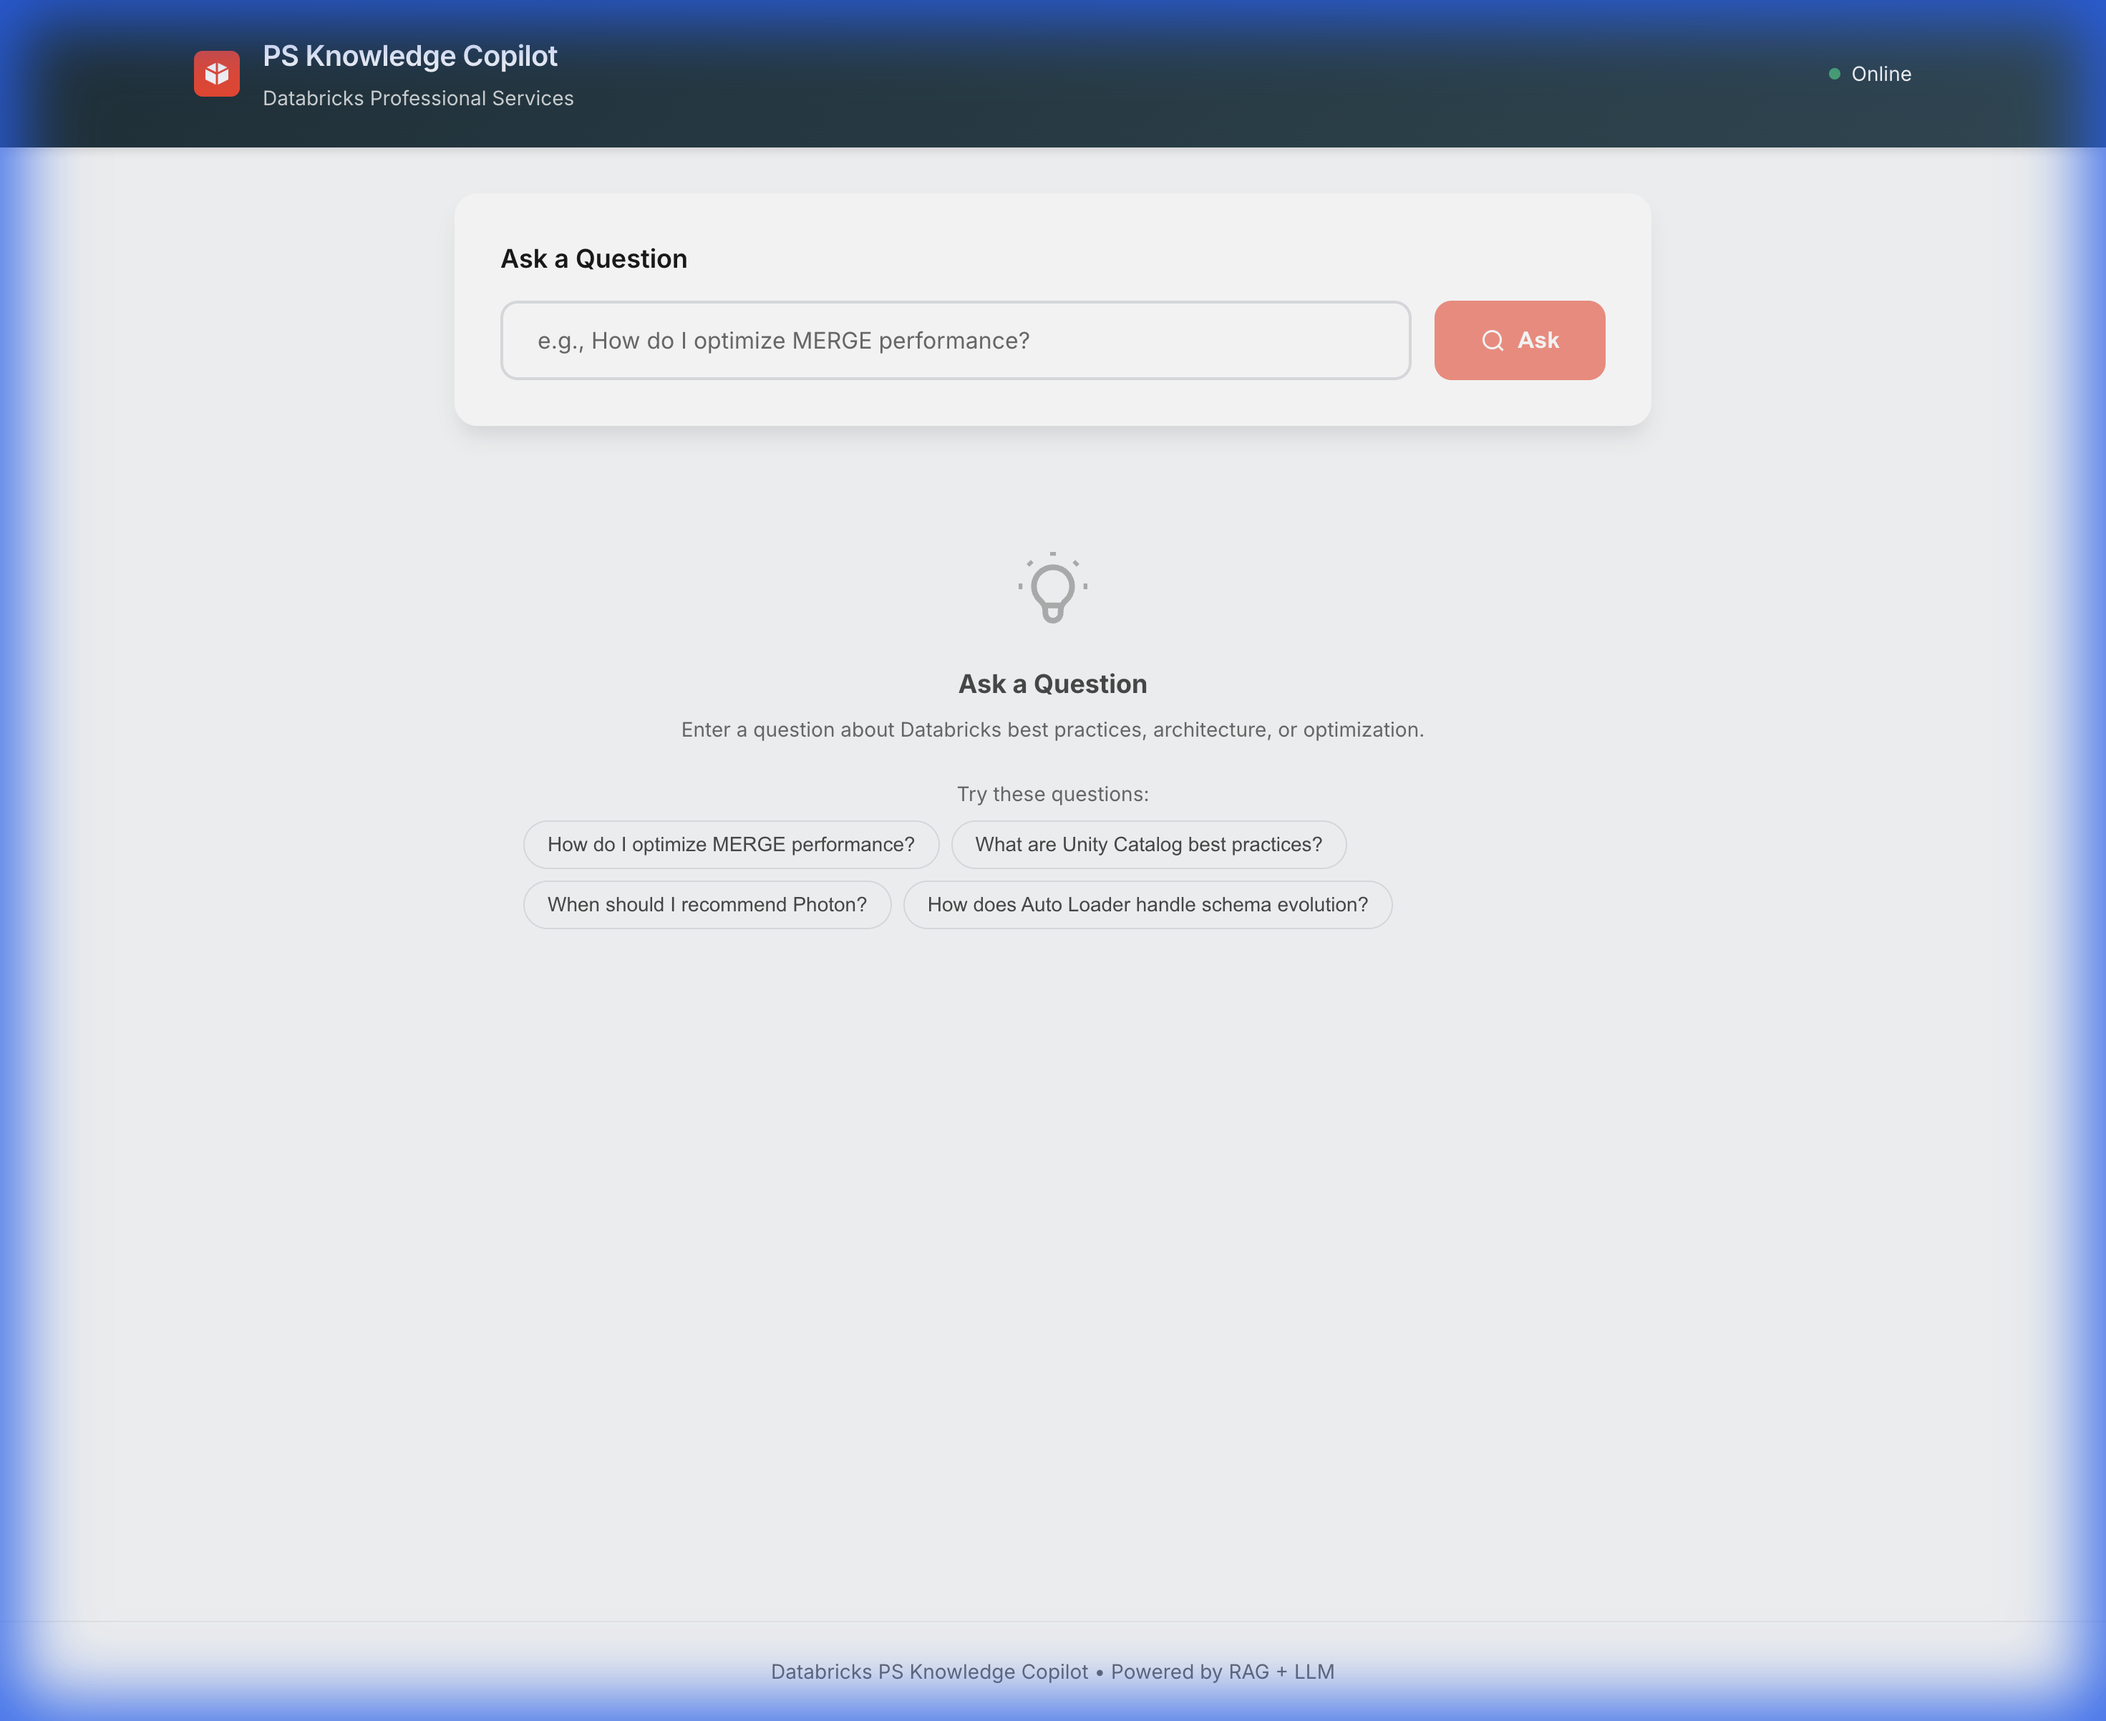
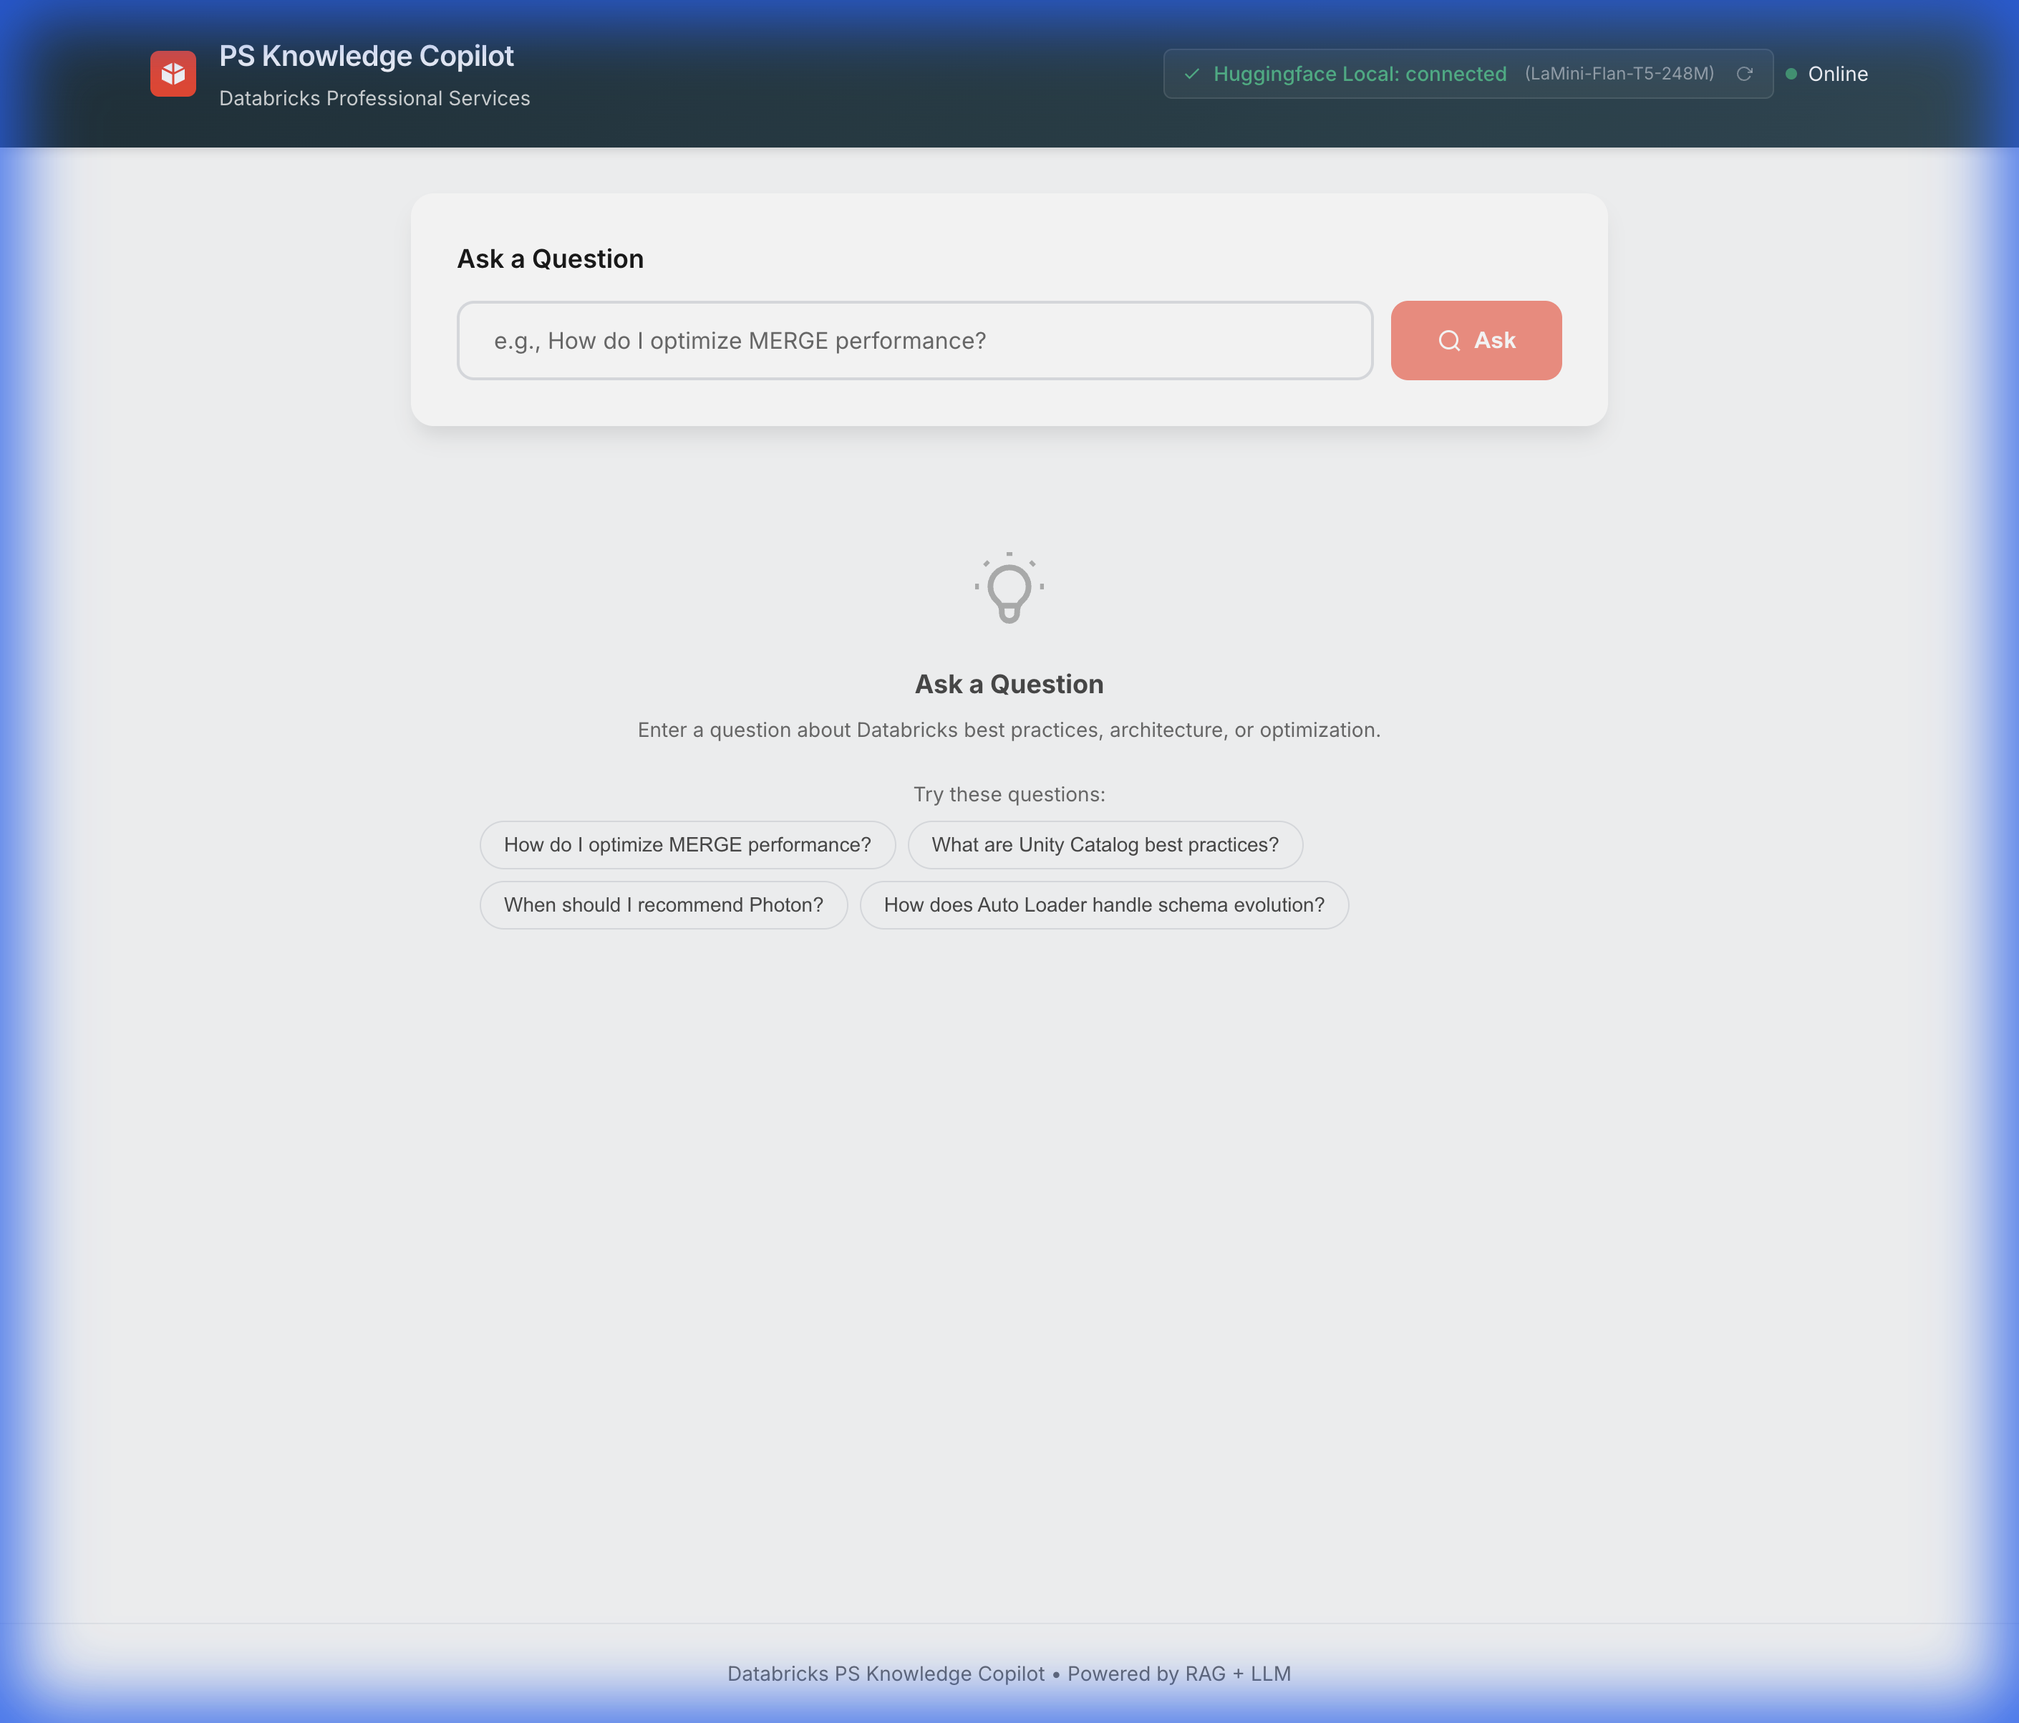
docs: Update screenshots with latest UI and AI features
New Screenshots:
- Main interface: Shows AI connection status and quick actions
- Query with follow-ups: Demonstrates smart follow-up questions and New button
- AI document analysis: Shows analysis feature with tags and complexity
- Full interface: Complete view of integrated AI features

Updated Descriptions:
- Highlight AI connection monitoring (Huggingface Local)
- Emphasize new AI-powered features (follow-ups, analysis)
- Showcase improved UX with New button
- Focus on modern, polished interface

Replaced old screenshots (Photon, Unity Catalog, Auto Loader queries)
with new ones that better demonstrate the AI capabilities.

diff --git a/README.md b/README.md
@@ -5,30 +5,30 @@ An internal AI "Knowledge Assistant" for Databricks Professional Services (PS) t
 ## 📸 Screenshots
 
 ### Main Interface
-The clean, modern interface allows consultants to quickly ask questions or select from common example queries. The header shows real-time API connection status.
+The modern interface shows real-time AI connection status (Huggingface Local model), backend health monitoring, and quick-action example questions to get started instantly.
 
 ![Main Interface](docs/images/main_interface.png)
 
 ---
 
-### Photon Engine Query
-Ask about when to recommend Photon for optimal performance. The answer includes detailed recommendations and cites source documents.
+### Smart Query with AI Follow-ups
+Ask any question and receive AI-generated answers with automatic follow-up questions. The "New" button lets you quickly start another query while preserving your context.
 
-![Photon Query](docs/images/photon_query.png)
-
----
-
-### Unity Catalog Best Practices
-Get authoritative guidance on Unity Catalog architecture, namespace structure, and governance patterns for enterprise deployments.
-
-![Unity Catalog Query](docs/images/unity_catalog_query.png)
+![Query with Follow-ups](docs/images/query_with_followups.png)
 
 ---
 
-### Auto Loader Schema Evolution
-Understand how Auto Loader handles schema changes dynamically, with specific configuration recommendations from the knowledge base.
+### AI Document Analysis
+Click "Analyze with AI" on any source to get instant summaries, relevant topic tags, and complexity ratings—helping you quickly assess document relevance.
 
-![Auto Loader Query](docs/images/auto_loader_query.png)
+![AI Document Analysis](docs/images/ai_analysis.png)
+
+---
+
+### Full Interface Overview
+The complete view shows the seamless integration of AI-powered answers, intelligent source citations, and interactive follow-up questions in one clean interface.
+
+![Full Interface](docs/images/full_interface.png)
 
 ## 🚀 Features
 
